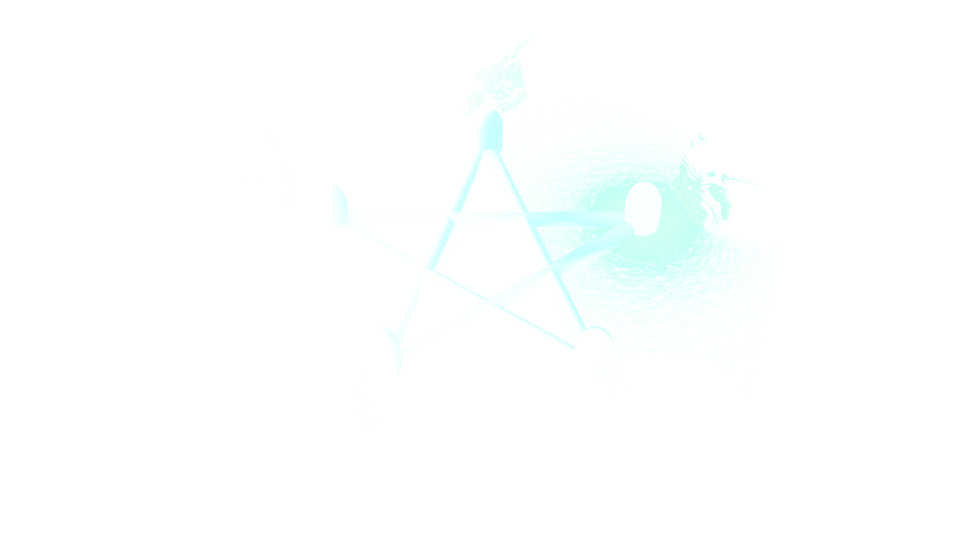
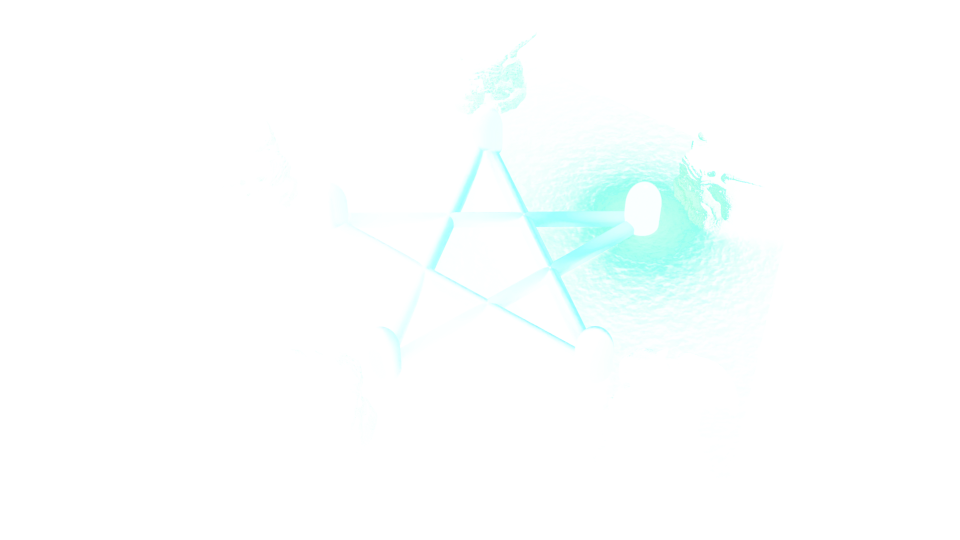
Añadido sonido y aumentado la luz

diff --git a/src/app/app.component.html b/src/app/app.component.html
@@ -9,6 +9,12 @@
   <img class="imagenes" [class.mostrar]="interruptores[3]" src="assets/3D/3.png">
   <img class="imagenes" [class.mostrar]="interruptores[4]" src="assets/3D/4.png">
 
+  <img class="imagenes" [class.mostrar]="interruptores[0]" src="assets/3D/0.png">
+  <img class="imagenes" [class.mostrar]="interruptores[1]" src="assets/3D/1.png">
+  <img class="imagenes" [class.mostrar]="interruptores[2]" src="assets/3D/2.png">
+  <img class="imagenes" [class.mostrar]="interruptores[3]" src="assets/3D/3.png">
+  <img class="imagenes" [class.mostrar]="interruptores[4]" src="assets/3D/4.png">
+
 
   <button class="boton cero" (click)="boton(0)"
     [ngClass]="{'': interruptores[0], 'apagado': !interruptores[0]}"></button>

diff --git a/src/app/app.component.ts b/src/app/app.component.ts
@@ -22,8 +22,22 @@ fin = false;
 
   intentos: number = 0;
 
+  ruido = new Audio('assets/ruido.ogg');
+  ruidoB = new Audio('assets/ruido.ogg');
+
   boton(interruptor: number) {
     const botones_a_cambiar = this.interruptores_cambiar[interruptor];
+
+    console.log(this.intentos % 2);
+    
+
+    //me pareció la manera más sencilla de reproducir dos audios a la vez
+    if(this.intentos % 2 === 0){ 
+      this.ruido.play();
+      console.log("A");
+      
+    }else{this.ruidoB.play();
+      console.log("B");} 
 
 
     this.interruptores[interruptor] = !this.interruptores[interruptor];
@@ -38,7 +52,7 @@ fin = false;
           this.fin = true
         }
     ;
-}, 100)
+}, 200)
 
 
     this.intentos++;

diff --git a/src/app/app.component.css b/src/app/app.component.css
@@ -12,7 +12,7 @@
     position: absolute;
     z-index: -1;
     opacity: 0;
-    transition: 0.2s;
+    transition: 1s;
 }
 
 .imagenes.mostrar {
@@ -107,7 +107,7 @@ h1 {
     background-color:rgb(12, 10, 7);
     border-radius: 20px;
     box-shadow: 10px 10px 50px black;
-    border: 3px solid black;
+    border: 3px solid wheat;
     position: absolute;
     top: 30vh;
     left: calc(50vw - 220px);
@@ -124,6 +124,10 @@ h1 {
     box-shadow: 5px 5px 10px;
     width: 152px;
     margin: 8px;
+}
+
+.reiniciar:hover{
+box-shadow: 0px 0px 10px wheat;
 }
 
 @media screen and (max-width: 800px) {

diff --git a/src/index.html b/src/index.html
@@ -4,7 +4,8 @@
   <meta charset="utf-8">
   <title>Rompecabezas</title>
   <base href="/">
-  <meta name="viewport" content="width=device-width, initial-scale=0.7">
+  <meta name="viewport">
+  <!--  content="width=device-width, initial-scale=0.7" -->
   <link rel="icon" type="image/x-icon" href="favicon.ico">
 </head>
 <body>
